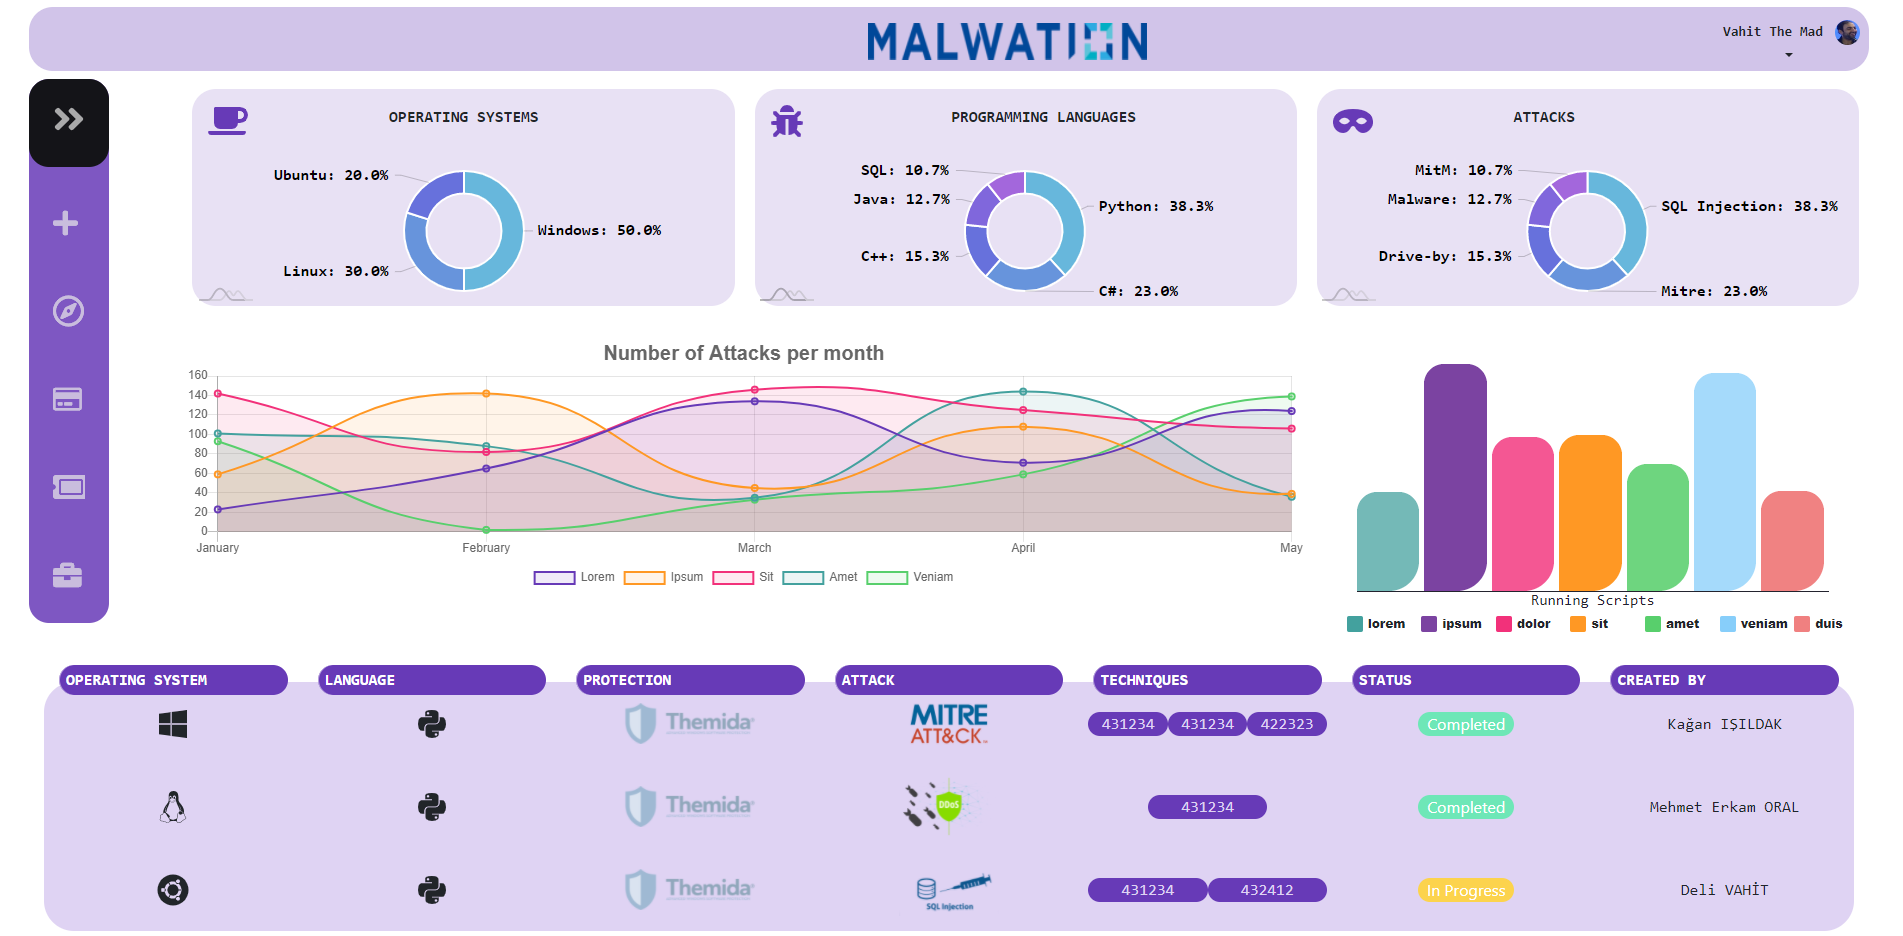
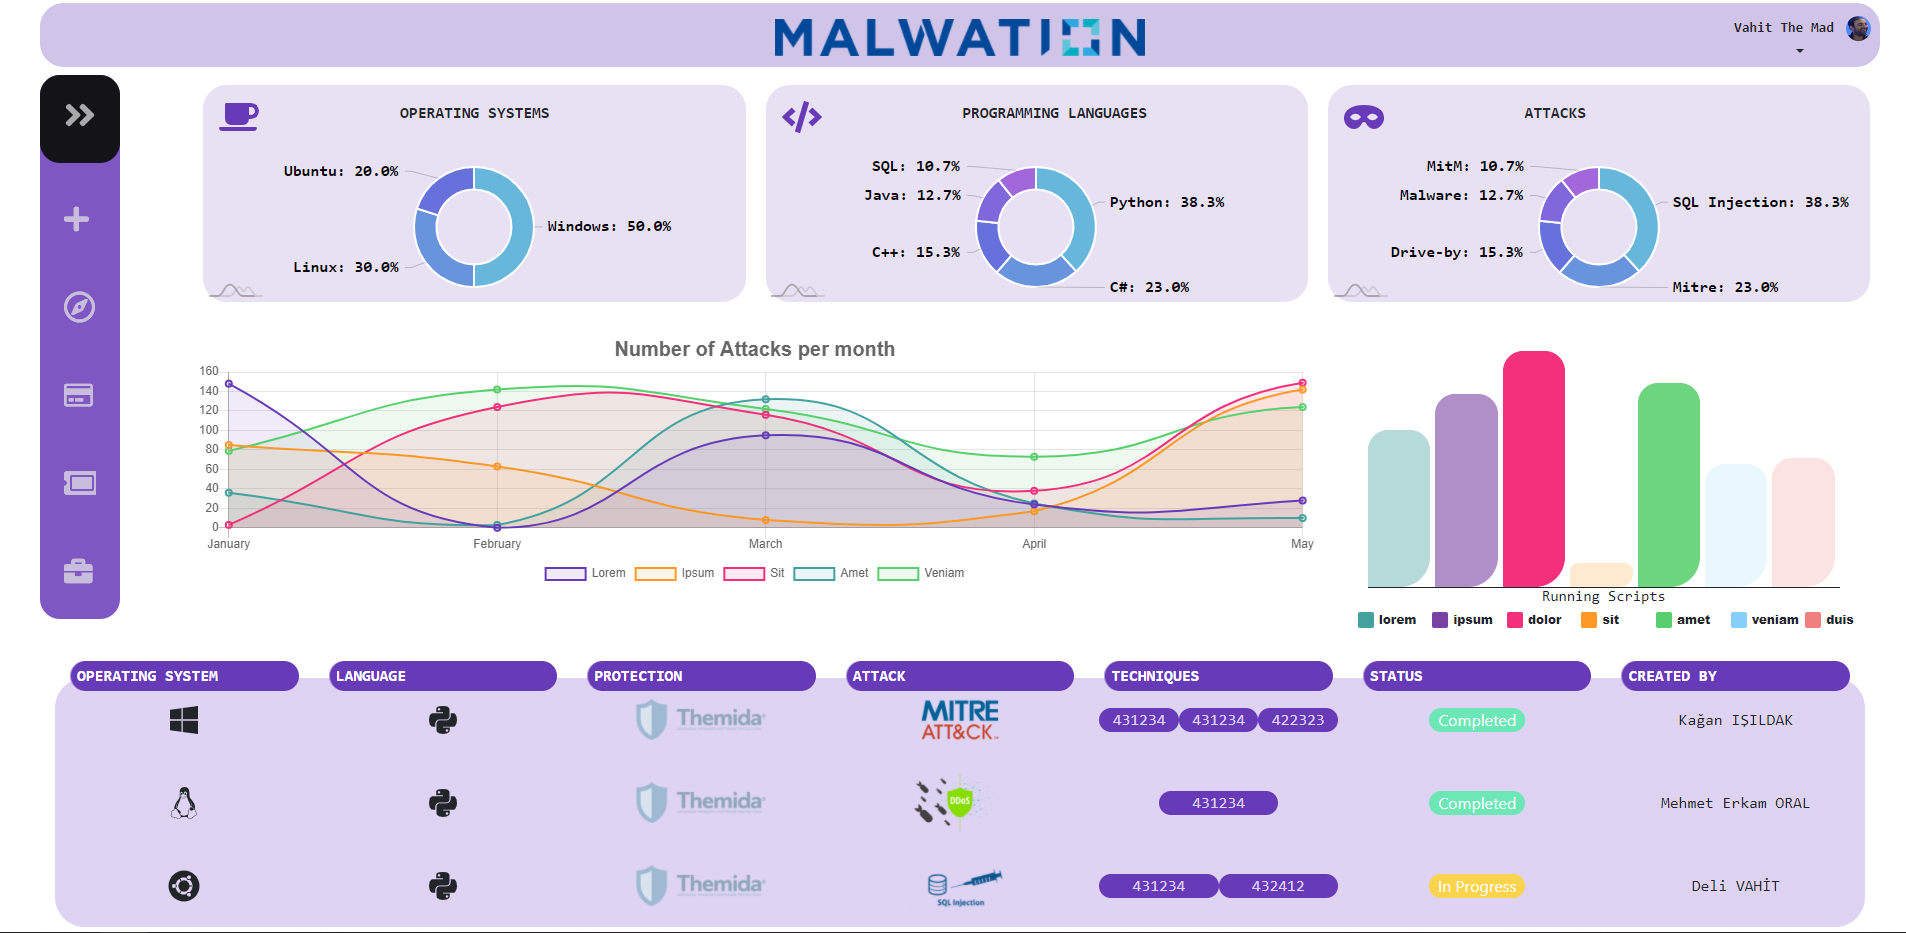
flex content upgrades

diff --git a/src/components/cards.js b/src/components/cards.js
@@ -1,7 +1,7 @@
 import React from 'react';
 import '../styles/styles_cards.css';
 import '../assets/styles.css'
-import { faCoffee, faBug, faMask } from "@fortawesome/free-solid-svg-icons";
+import { faCoffee, faCode, faMask } from "@fortawesome/free-solid-svg-icons";
 import { FontAwesomeIcon } from "@fortawesome/react-fontawesome";
 import { library } from "@fortawesome/fontawesome-svg-core";
 import * as am4core from "@amcharts/amcharts4/core";
@@ -10,7 +10,7 @@ import am4themes_animated from "@amcharts/amcharts4/themes/animated";
 
 am4core.useTheme(am4themes_animated);
 
-library.add(faCoffee, faBug, faMask);
+library.add(faCoffee, faCode, faMask);
 
 class Pie extends React.Component {
   render() {
@@ -91,7 +91,7 @@ class CardComponent extends React.Component {
                     ]
             },
             {
-                icon: "bug",
+                icon: "code",
                 text:"Programming Languages",
                 chart_data: [ 
                     {

diff --git a/src/App.js b/src/App.js
@@ -10,12 +10,12 @@ import malwation from './assets/img/malwation.png'
 //Creating App component for render
 const App = () =>
 <div>
-  <div className="grid mx-10 rounded-3xl logo-header grid-cols-6 my-2">
-    <div className="col-start-4 mt-3">
-        <img className="malwation"src={malwation}/>
-    </div>
+  <div className=" mx-10 rounded-3xl logo-header my-2">
+    <div className="flex justify-center">
+        <img className="malwation mt-3" src={malwation}/>
+      </div>
     <div className="user-dropdown col-start-8 mt-2">
-        <div >
+        <div className=" flex justify-end">
         <UserCard />
         </div>
     </div>

diff --git a/src/styles/styles_charts.css b/src/styles/styles_charts.css
@@ -2,15 +2,7 @@
   background-color: #d1c4e9;
   box-shadow: #d1c4e9;
 }
-.malwation{
-  height: 4vh;
-}
-.logo-header{
-  background-color: #d1c4e9;
-}
-.user-dropdown{
-float: right;
-}
+
 
 .Charts {
   margin: 0 auto;

diff --git a/src/styles/styles_usercard.scss b/src/styles/styles_usercard.scss
@@ -5,3 +5,12 @@ span{
 .btn:focus {
   box-shadow: none;
 }
+.malwation {
+flex-direction: column;
+justify-content: center;
+position: fixed;
+height: 4vh;
+}
+.logo-header{
+  background-color: #d1c4e9;
+}
